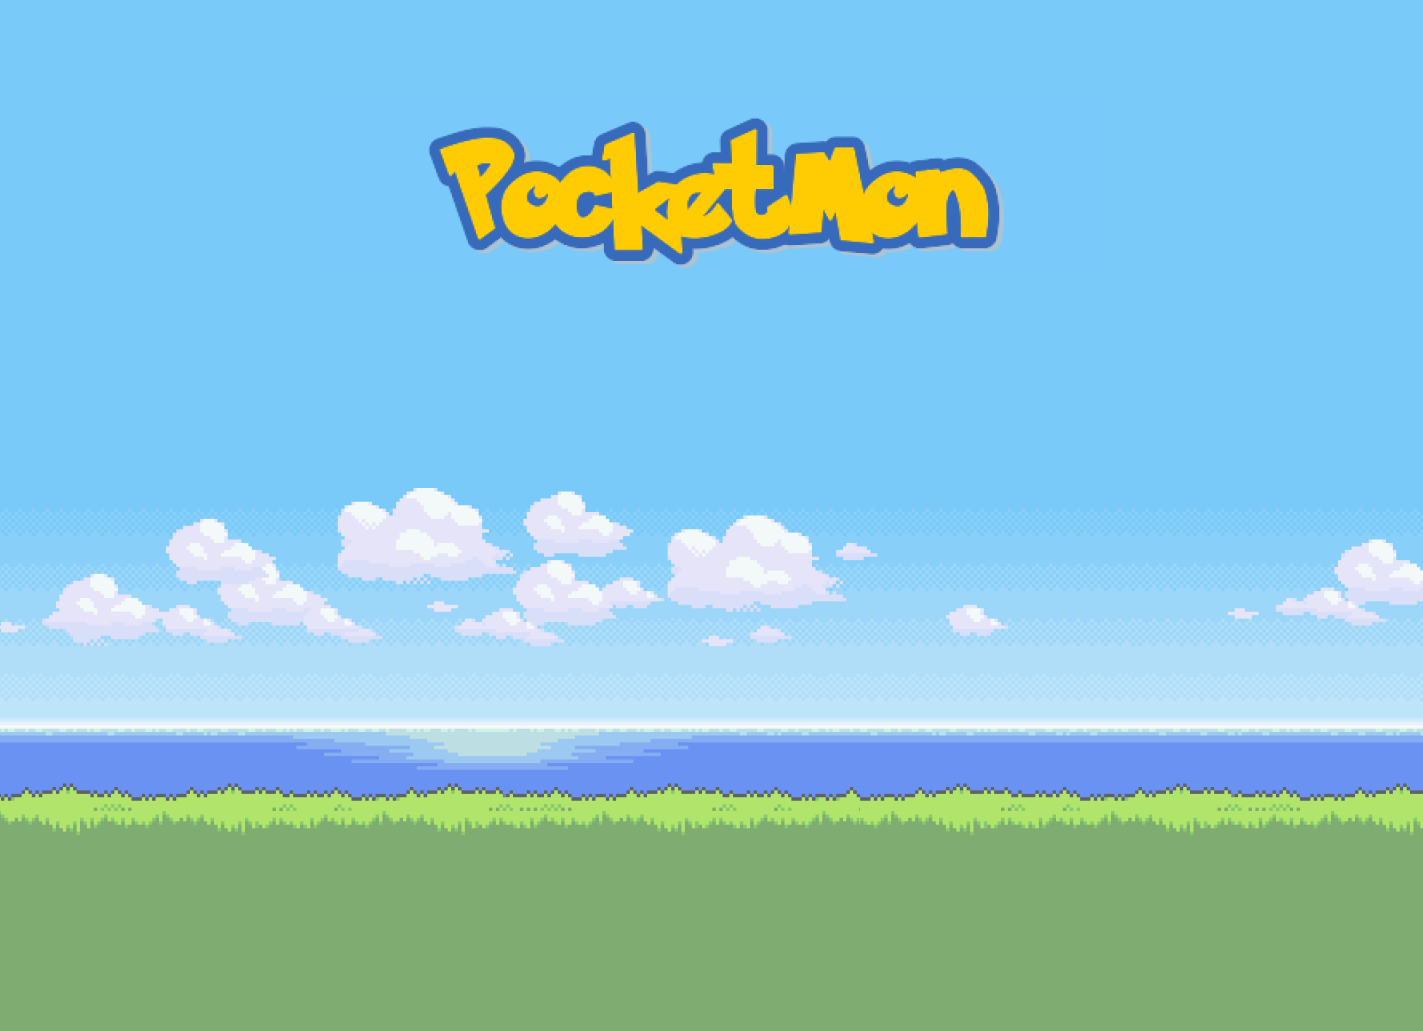
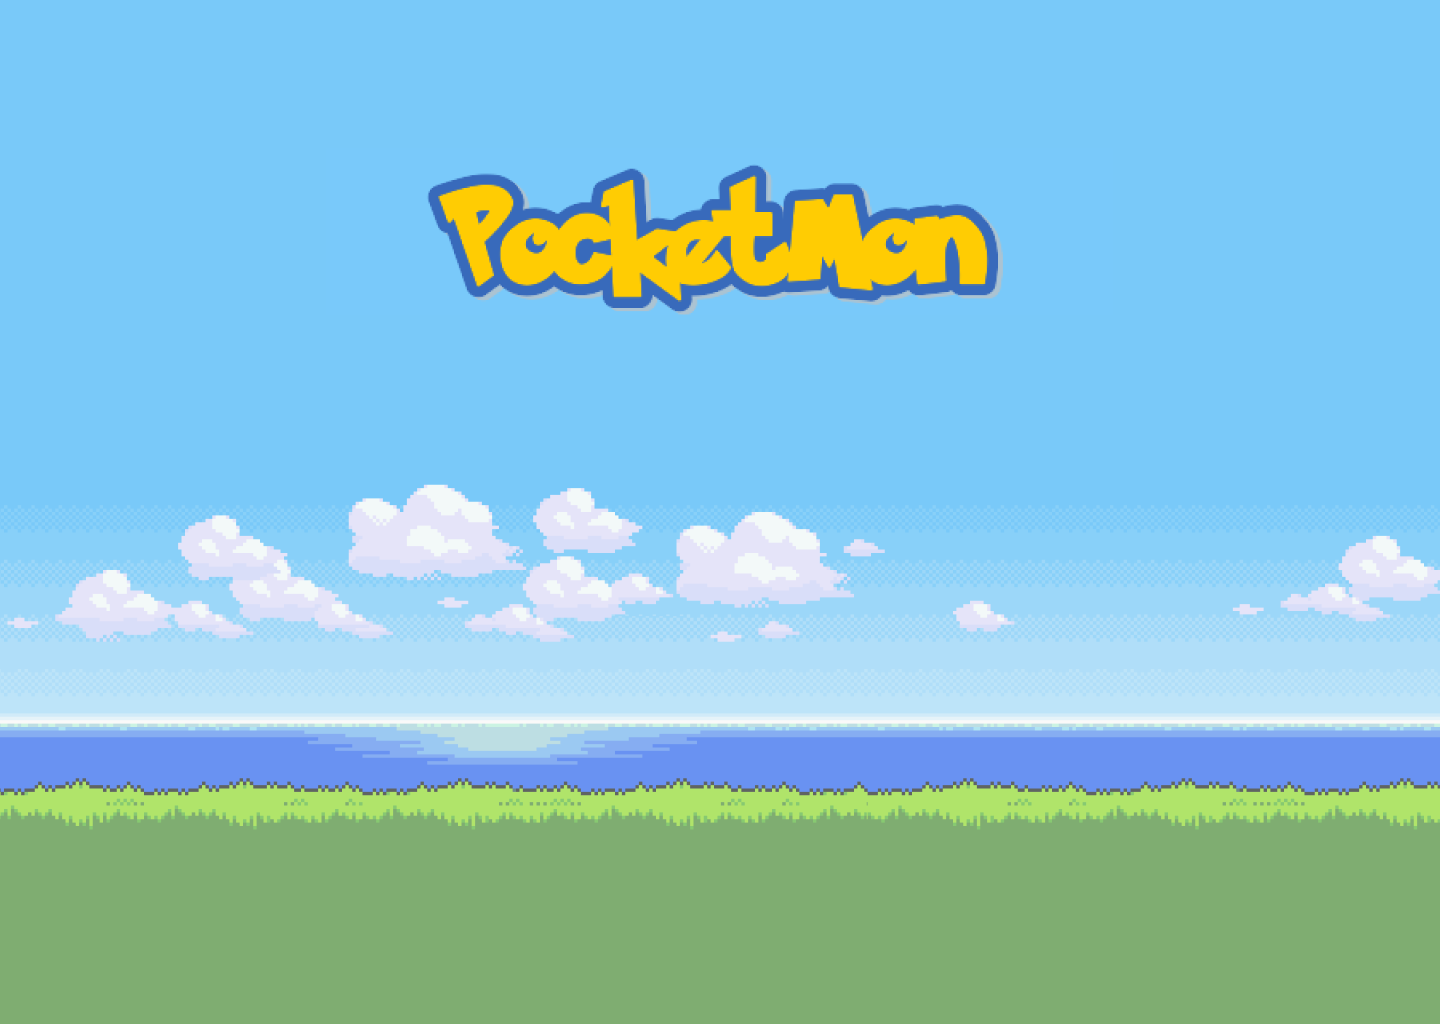
nuevo fondo de pantalla

diff --git a/src/style.css b/src/style.css
@@ -4,7 +4,7 @@
 }
 
 body {
-  background-image: url(https://github.com/March-Hdz-Carba/GDL002-data-lovers/blob/master/src/images/background.jpg?raw=true);
+  background-image: url(https://github.com/CaroMG/GDL002-data-lovers/blob/master/src/images/background.png?raw=true);
   background-position: center;
   background-repeat: no-repeat;
   background-size: cover;
@@ -13,7 +13,7 @@ body {
 
 @media only screen and (max-width:1024px) {
   body{
-      background-image: url(https://github.com/March-Hdz-Carba/GDL002-data-lovers/blob/master/src/images/backgroundcel.png?raw=true);
+      background-image: url(https://github.com/March-Hdz-Carba/GDL002-data-lhttps://github.com/CaroMG/GDL002-data-lovers/blob/master/src/images/backgroundcel.png?raw=truevers/blob/master/src/images/backgroundcel.png?raw=true);
       background-position: center center;
       background-repeat: no-repeat;
       background-size: cover;
